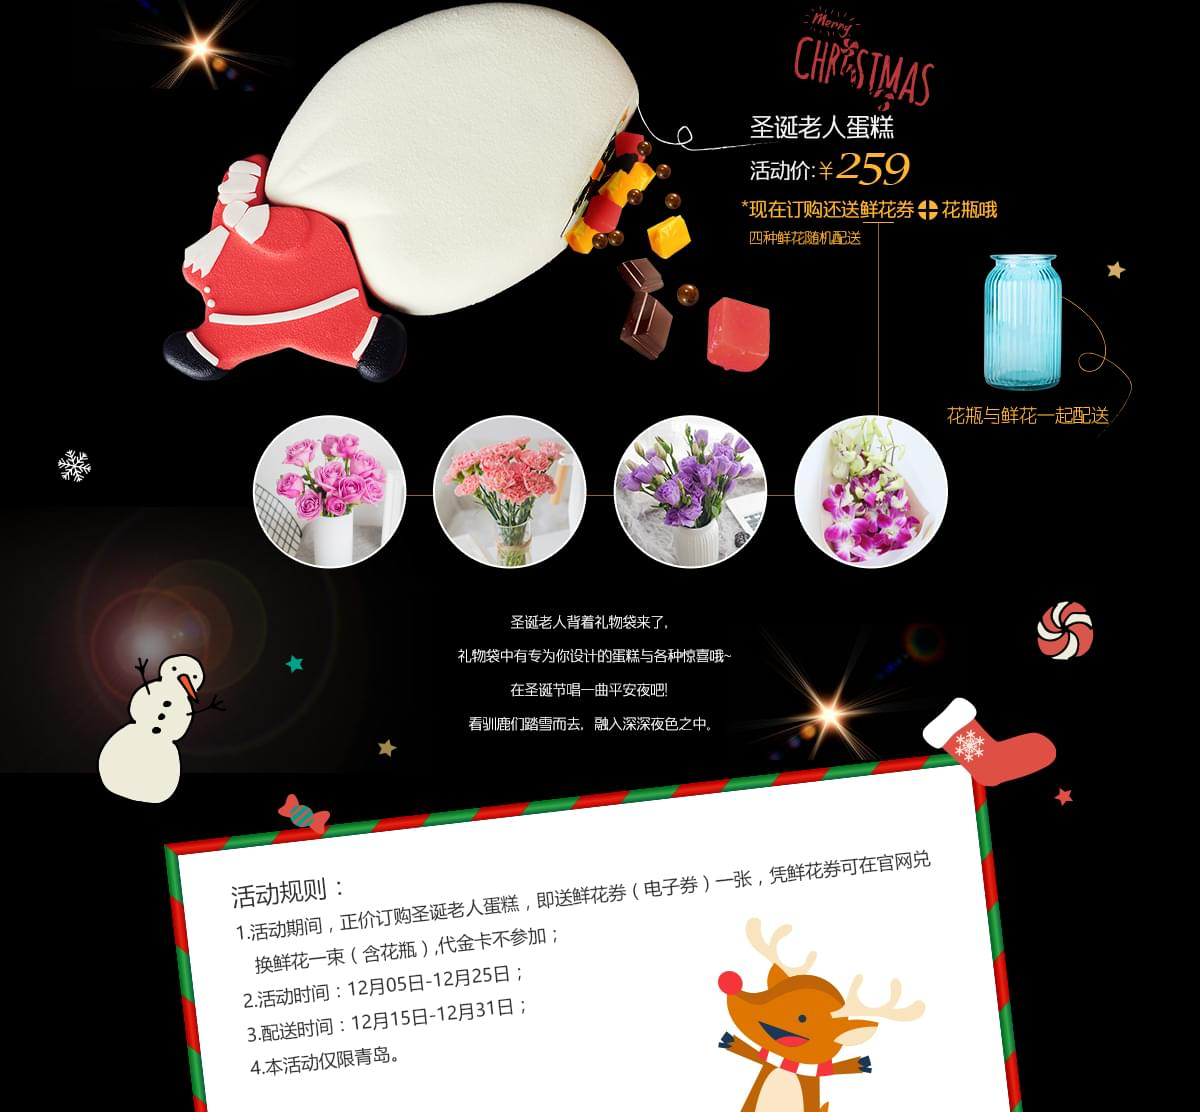
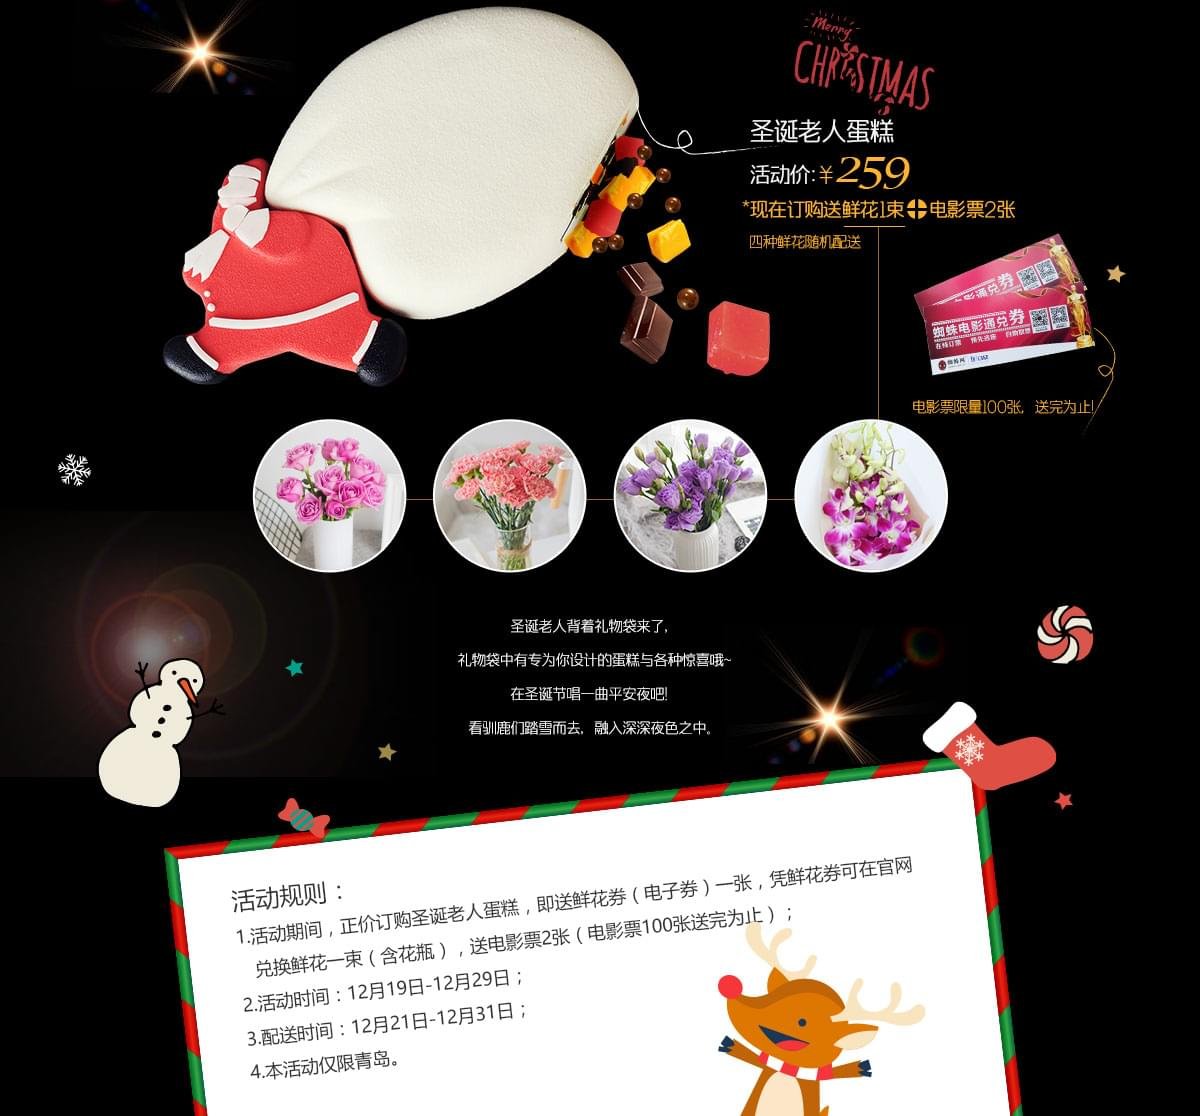
青岛圣诞节活动调整

diff --git a/assets/css/merry-christmas-sh.css b/assets/css/merry-christmas-sh.css
@@ -2,6 +2,7 @@
 #merryChristmas .merryChristmas-wrapper { width: 1200px; margin: 0 auto; }
 
 .merryChristmas-wrapper .banner { width: 100%; height: 650px; background: url('../img/merry-christmas-sh/banner.jpg') no-repeat; }
+.merryChristmas-wrapper .banner-qd {background-image: url('../img/merry-christmas-sh/banner_qd.jpg'); }
 
 .merryChristmas-wrapper .cake { position: relative; width: 100%; height: 750px; background: url('../img/merry-christmas-sh/cake01.jpg') no-repeat; }
 .merryChristmas-wrapper .btn-buy { position: absolute; top:-6px; right: 76px; display: block; width: 188px; height: 198px; background: url('../img/merry-christmas-sh/btn_buy.png') no-repeat; -webkit-animation: 1.75s smooth infinite; animation: 1.75s smooth infinite; }
@@ -9,7 +10,7 @@
 .merryChristmas-wrapper .cake2 .btn-buy { top: 26px; right: 330px; }
 .merryChristmas-wrapper .cake-bj { height: 1132px; background: url('../img/merry-christmas-sh/cake.jpg') no-repeat; }
 .merryChristmas-wrapper .cake-bj .btn-buy { top: -8px; right: 66px; }
-.merryChristmas-wrapper .cake-qd { height: 1112px; background: url('../img/merry-christmas-sh/cake_qd.jpg') no-repeat; }
+.merryChristmas-wrapper .cake-qd { height: 1116px; background: url('../img/merry-christmas-sh/cake_qd.jpg') no-repeat; }
 /* 呼吸灯样式  */
 @-webkit-keyframes smooth {
 	0% { -webkit-transform: scale(1); }

diff --git a/merry-christmas-qd.html b/merry-christmas-qd.html
@@ -228,7 +228,7 @@
             <div id="merryChristmas">
                 
                 <div class="merryChristmas-wrapper">
-                    <div class="banner"></div>
+                    <div class="banner banner-qd"></div>
                     <div class="cake cake-qd">
                     	<a href="javascript:;" class="btn-buy"></a>
                     </div>
